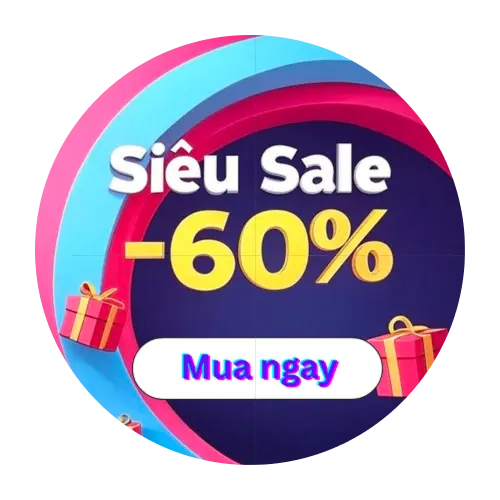
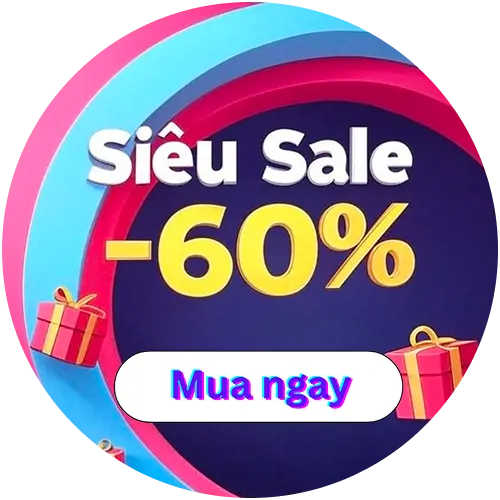
update tiktok, hide lzd

diff --git a/index.min.js b/index.min.js
@@ -1,1 +1,1 @@
-(()=>{function U(){U=function(){return a};var s,a={},e=Object.prototype,u=e.hasOwnProperty,l=Object.defineProperty||function(e,t,n){e[t]=n.value},t="function"==typeof Symbol?Symbol:{},r=t.iterator||"@@iterator",n=t.asyncIterator||"@@asyncIterator",o=t.toStringTag||"@@toStringTag";function i(e,t,n){return Object.defineProperty(e,t,{value:n,enumerable:!0,configurable:!0,writable:!0}),e[t]}try{i({},"")}catch(s){i=function(e,t,n){return e[t]=n}}function c(e,t,n,r){var o,i,a,c,t=t&&t.prototype instanceof m?t:m,t=Object.create(t.prototype),r=new S(r||[]);return l(t,"_invoke",{value:(o=e,i=n,a=r,c=p,function(e,t){if(c===d)throw Error("Generator is already running");if(c===y){if("throw"===e)throw t;return{value:s,done:!0}}for(a.method=e,a.arg=t;;){var n=a.delegate;if(n){n=function e(t,n){var r=n.method,o=t.iterator[r];if(o===s)return n.delegate=null,"throw"===r&&t.iterator.return&&(n.method="return",n.arg=s,e(t,n),"throw"===n.method)||"return"!==r&&(n.method="throw",n.arg=new TypeError("The iterator does not provide a '"+r+"' method")),v;r=f(o,t.iterator,n.arg);if("throw"===r.type)return n.method="throw",n.arg=r.arg,n.delegate=null,v;o=r.arg;return o?o.done?(n[t.resultName]=o.value,n.next=t.nextLoc,"return"!==n.method&&(n.method="next",n.arg=s),n.delegate=null,v):o:(n.method="throw",n.arg=new TypeError("iterator result is not an object"),n.delegate=null,v)}(n,a);if(n){if(n===v)continue;return n}}if("next"===a.method)a.sent=a._sent=a.arg;else if("throw"===a.method){if(c===p)throw c=y,a.arg;a.dispatchException(a.arg)}else"return"===a.method&&a.abrupt("return",a.arg);c=d;n=f(o,i,a);if("normal"===n.type){if(c=a.done?y:h,n.arg===v)continue;return{value:n.arg,done:a.done}}"throw"===n.type&&(c=y,a.method="throw",a.arg=n.arg)}})}),t}function f(e,t,n){try{return{type:"normal",arg:e.call(t,n)}}catch(e){return{type:"throw",arg:e}}}a.wrap=c;var p="suspendedStart",h="suspendedYield",d="executing",y="completed",v={};function m(){}function g(){}function w(){}var t={},b=(i(t,r,function(){return this}),Object.getPrototypeOf),b=b&&b(b(j([]))),x=(b&&b!==e&&u.call(b,r)&&(t=b),w.prototype=m.prototype=Object.create(t));function L(e){["next","throw","return"].forEach(function(t){i(e,t,function(e){return this._invoke(t,e)})})}function k(a,c){var t;l(this,"_invoke",{value:function(n,r){function e(){return new c(function(e,t){!function t(e,n,r,o){var i,e=f(a[e],a,n);if("throw"!==e.type)return(n=(i=e.arg).value)&&"object"==_(n)&&u.call(n,"__await")?c.resolve(n.__await).then(function(e){t("next",e,r,o)},function(e){t("throw",e,r,o)}):c.resolve(n).then(function(e){i.value=e,r(i)},function(e){return t("throw",e,r,o)});o(e.arg)}(n,r,e,t)})}return t=t?t.then(e,e):e()}})}function E(e){var t={tryLoc:e[0]};1 in e&&(t.catchLoc=e[1]),2 in e&&(t.finallyLoc=e[2],t.afterLoc=e[3]),this.tryEntries.push(t)}function I(e){var t=e.completion||{};t.type="normal",delete t.arg,e.completion=t}function S(e){this.tryEntries=[{tryLoc:"root"}],e.forEach(E,this),this.reset(!0)}function j(t){if(t||""===t){var n,e=t[r];if(e)return e.call(t);if("function"==typeof t.next)return t;if(!isNaN(t.length))return n=-1,(e=function e(){for(;++n<t.length;)if(u.call(t,n))return e.value=t[n],e.done=!1,e;return e.value=s,e.done=!0,e}).next=e}throw new TypeError(_(t)+" is not iterable")}return l(x,"constructor",{value:g.prototype=w,configurable:!0}),l(w,"constructor",{value:g,configurable:!0}),g.displayName=i(w,o,"GeneratorFunction"),a.isGeneratorFunction=function(e){e="function"==typeof e&&e.constructor;return!!e&&(e===g||"GeneratorFunction"===(e.displayName||e.name))},a.mark=function(e){return Object.setPrototypeOf?Object.setPrototypeOf(e,w):(e.__proto__=w,i(e,o,"GeneratorFunction")),e.prototype=Object.create(x),e},a.awrap=function(e){return{__await:e}},L(k.prototype),i(k.prototype,n,function(){return this}),a.AsyncIterator=k,a.async=function(e,t,n,r,o){void 0===o&&(o=Promise);var i=new k(c(e,t,n,r),o);return a.isGeneratorFunction(t)?i:i.next().then(function(e){return e.done?e.value:i.next()})},L(x),i(x,o,"Generator"),i(x,r,function(){return this}),i(x,"toString",function(){return"[object Generator]"}),a.keys=function(e){var t,n=Object(e),r=[];for(t in n)r.push(t);return r.reverse(),function e(){for(;r.length;){var t=r.pop();if(t in n)return e.value=t,e.done=!1,e}return e.done=!0,e}},a.values=j,S.prototype={constructor:S,reset:function(e){if(this.prev=0,this.next=0,this.sent=this._sent=s,this.done=!1,this.delegate=null,this.method="next",this.arg=s,this.tryEntries.forEach(I),!e)for(var t in this)"t"===t.charAt(0)&&u.call(this,t)&&!isNaN(+t.slice(1))&&(this[t]=s)},stop:function(){this.done=!0;var e=this.tryEntries[0].completion;if("throw"===e.type)throw e.arg;return this.rval},dispatchException:function(n){if(this.done)throw n;var r=this;function e(e,t){return i.type="throw",i.arg=n,r.next=e,t&&(r.method="next",r.arg=s),!!t}for(var t=this.tryEntries.length-1;0<=t;--t){var o=this.tryEntries[t],i=o.completion;if("root"===o.tryLoc)return e("end");if(o.tryLoc<=this.prev){var a=u.call(o,"catchLoc"),c=u.call(o,"finallyLoc");if(a&&c){if(this.prev<o.catchLoc)return e(o.catchLoc,!0);if(this.prev<o.finallyLoc)return e(o.finallyLoc)}else if(a){if(this.prev<o.catchLoc)return e(o.catchLoc,!0)}else{if(!c)throw Error("try statement without catch or finally");if(this.prev<o.finallyLoc)return e(o.finallyLoc)}}}},abrupt:function(e,t){for(var n=this.tryEntries.length-1;0<=n;--n){var r=this.tryEntries[n];if(r.tryLoc<=this.prev&&u.call(r,"finallyLoc")&&this.prev<r.finallyLoc){var o=r;break}}var i=(o=o&&("break"===e||"continue"===e)&&o.tryLoc<=t&&t<=o.finallyLoc?null:o)?o.completion:{};return i.type=e,i.arg=t,o?(this.method="next",this.next=o.finallyLoc,v):this.complete(i)},complete:function(e,t){if("throw"===e.type)throw e.arg;return"break"===e.type||"continue"===e.type?this.next=e.arg:"return"===e.type?(this.rval=this.arg=e.arg,this.method="return",this.next="end"):"normal"===e.type&&t&&(this.next=t),v},finish:function(e){for(var t=this.tryEntries.length-1;0<=t;--t){var n=this.tryEntries[t];if(n.finallyLoc===e)return this.complete(n.completion,n.afterLoc),I(n),v}},catch:function(e){for(var t=this.tryEntries.length-1;0<=t;--t){var n,r,o=this.tryEntries[t];if(o.tryLoc===e)return"throw"===(n=o.completion).type&&(r=n.arg,I(o)),r}throw Error("illegal catch attempt")},delegateYield:function(e,t,n){return this.delegate={iterator:j(e),resultName:t,nextLoc:n},"next"===this.method&&(this.arg=s),v}},a}function _(e){return(_="function"==typeof Symbol&&"symbol"==typeof Symbol.iterator?function(e){return typeof e}:function(e){return e&&"function"==typeof Symbol&&e.constructor===Symbol&&e!==Symbol.prototype?"symbol":typeof e})(e)}function s(e,t,n,r,o,i,a){try{var c=e[i](a),s=c.value}catch(e){return n(e)}c.done?t(s):Promise.resolve(s).then(r,o)}function S(c){return function(){var e=this,a=arguments;return new Promise(function(t,n){var r=c.apply(e,a);function o(e){s(r,t,n,o,i,"next",e)}function i(e){s(r,t,n,o,i,"throw",e)}o(void 0)})}}document.addEventListener("DOMContentLoaded",S(U().mark(function e(){var n,t,i,a,c,r,o,s,u,l,f,p,h,d,y,v,m,g,w,b,x,L,k,E,I;return U().wrap(function(e){for(;;)switch(e.prev=e.next){case 0:if(I=function(){var e=document.getElementById(0<arguments.length&&void 0!==arguments[0]?arguments[0]:"");return e.parentNode.lastChild===e},E=function(){var e=document.getElementById(0<arguments.length&&void 0!==arguments[0]?arguments[0]:"");document.body.appendChild(e)},k=function(){var e=document.querySelector("#pvoucher-live-icon img").src;return r.indexOf(e)},L=function(){return(L=S(U().mark(function e(){var t,n,r,o=arguments;return U().wrap(function(e){for(;;)switch(e.prev=e.next){case 0:if(t=0<o.length&&void 0!==o[0]&&o[0],n=(new Date).getTime(),r=y("pEndLifeCircleTime"),null==y("pUrlIndex"))e.next=18;else{if(null!=r)return e.next=8,v(n,r);e.next=15}break;case 8:e.sent?(w(n,t),e.next=13):e.next=12;break;case 12:t&&g();case 13:e.next=16;break;case 15:w(n,t);case 16:e.next=26;break;case 18:return e.next=20,m(0);case 20:if(!e.sent){e.next=23;break}d("pEndLifeCircleTime",n),g();case 23:i=!1,d("pUrlIndex",0),window.open(h(c[0]),"_blank","noopener");case 26:case"end":return e.stop()}},e)}))).apply(this,arguments)},x=function(){return L.apply(this,arguments)},b=function(){return(b=S(U().mark(function e(t,n){var r,o;return U().wrap(function(e){for(;;)switch(e.prev=e.next){case 0:return r=y("pUrlIndex"),(o=void(o=0)===a||1!=a||k()!=r?parseInt(r)+1:parseInt(r))>=c.length&&(o=0),e.next=6,m(o);case 6:if(!e.sent){e.next=9;break}d("pEndLifeCircleTime",t),g();case 9:d("pUrlIndex",o),i=!1,window.open(h(c[o]),"_blank","noopener");case 12:case"end":return e.stop()}},e)}))).apply(this,arguments)},w=function(e,t){return b.apply(this,arguments)},g=function(){document.querySelector("#pvoucher-live-container").style.display="none"},m=function(e){return e==c.length-1},v=function(e,t){return(2<arguments.length&&void 0!==arguments[2]?arguments[2]:.01)*n<e-t},y=function(e){return localStorage.getItem(e)},d=function(e,t){localStorage.setItem(e,t)},h=function(e){return"click.adpia.vn"!=(objectURL=new URL(e)).host&&"adpvn.co"!=objectURL.host&&"adpvn.top"!=objectURL.host?"https://rutgon.me/v0/".concat(pAffiliateId,"?url=").concat(encodeURIComponent(e)):e},p=function(e){setTimeout(function(){document.body.insertAdjacentHTML("beforeend",u),null!=document.querySelector("#pvoucher-live-icon")&&document.querySelector("#pvoucher-live-icon").addEventListener("click",function(){x()}),null!=document.querySelector("#pvoucher-live-close")&&document.querySelector("#pvoucher-live-close").addEventListener("click",function(){i&&x(!0),g()})},e)},n=36e5,o=window.innerWidth,t=1500,l=50,a=i=!(f=0),c=["https://pages.lazada.vn/wow/gcp/lazada/channel/vn/voucher/claimvoucher?","https://shopee.vn/m/ma-giam-gia","https://www.tiktok.com/t/ZSkbqcfb1/"],r=["https://cdn.jsdelivr.net/gh/masoffer-com/Aff-Pop@master/images/lazada-voucher.webp","https://cdn.jsdelivr.net/gh/masoffer-com/Aff-Pop@master/images/shopee-voucher.webp","https://cdn.jsdelivr.net/gh/masoffer-com/Aff-Pop@master/images/tiktok-voucher.webp"],"undefined"!=typeof pUserUrls&&(c=pUserUrls),"undefined"!=typeof pUserBanners&&(r=pUserBanners),"undefined"!=typeof pUserDelay&&(t=1e3*pUserDelay),"undefined"!=typeof iconPosition&&(l=iconPosition),f=768<=o?pWidthPCScreen:pWidthMobileScreen,void(o=0)!==a&&1==a?(o=null!=y("pUrlIndex")?parseInt(y("pUrlIndex"))+1:2)>=r.length&&(o=0):(console.log(_(a)),o=Math.floor(Math.random()*(null==(s=r)?void 0:s.length))),console.log("pBannerIndex: ",o),s="\n    <style>\n        .p-fade-in {\n          transform-origin: center right; transition: transform 0.3s ease-in-out; opacity: 0;\n          animation: pFadeIn ease-in-out 2.3s 1 forwards; -webkit-animation: pFadeIn ease-in-out 2.3s 1 forwards;\n          -moz-animation: pFadeIn ease-in-out 2.3s 1 forwards; -o-animation: pFadeIn ease-in-out 2.3s 1 forwards;\n          -ms-animation: pFadeIn ease-in-out 2.3s 1 forwards; position: fixed; top: ".concat(l,"%; right: 8px;\n          transform: translateY(-50%) scale(1); z-index: 2147483646\n        }\n        @keyframes         pFadeIn { 0% { opacity: 0; } 100% { opacity: 1; } }\n        @-moz-keyframes    pFadeIn { 0% { opacity: 0; } 100% { opacity: 1; } }\n        @-webkit-keyframes pFadeIn { 0% { opacity: 0; } 100% { opacity: 1; } }\n        @-o-keyframes      pFadeIn { 0% { opacity: 0; } 100% { opacity: 1; } }\n        @-ms-keyframes     pFadeIn { 0% { opacity: 0; } 100% { opacity: 1; } }\n\n        @media only screen and (max-width: 600px)  { .p-fade-in { transform: translateY(-50%) scale(0.77); } }\n        @media only screen and (min-width: 601px)\n                           and (max-width: 1200px) { .p-fade-in { transform: translateY(-50%) scale(0.88); } }\n        @media only screen and (min-width: 1201px) { .p-fade-in {} }\n    </style>\n  "),u=(u=s+'\n      <div id="pvoucher-live-container" class="p-fade-in">\n          <div style="position: relative;">\n              <div id="pvoucher-live-close" style="position: absolute; top: -20px; right: 0; background-color: #ffffff; border: 1px solid #bbbbbb; width: fit-content; display: inline; border-radius: 50%; padding: 3px 6px; font-size: 12px; font-weight: 600; cursor: pointer; line-height: initial;">\n                  &#10006;\n              </div>\n              <div id="pvoucher-live-icon" style="width: '.concat(f,'px; cursor: pointer;">\n                  <img src="').concat(""==r[o]?"https://cdn.jsdelivr.net/gh/masoffer-com/Aff-Pop@master/images/shopee-voucher.webp":r[o],'" alt="" style="width: 100%;">\n              </div>\n          </div>\n      </div>\n  ')).replace(/(\r\n|\n|\r)/gm,"").replace(/[\t\s]+/gm," "),l=(new Date).getTime(),null!=(f=y("pEndLifeCircleTime")))return e.next=40,v(l,f);e.next=44;break;case 40:if(!e.sent){e.next=42;break}p(t);case 42:e.next=45;break;case 44:p(t);case 45:setInterval(function(){!document.getElementById("pvoucher-live-container")||I("pvoucher-live-container")||E("pvoucher-live-container")},3e3);case 46:case"end":return e.stop()}},e)})))})();
+(()=>{function U(){U=function(){return a};var u,a={},t=Object.prototype,s=t.hasOwnProperty,l=Object.defineProperty||function(t,e,n){t[e]=n.value},e="function"==typeof Symbol?Symbol:{},r=e.iterator||"@@iterator",n=e.asyncIterator||"@@asyncIterator",o=e.toStringTag||"@@toStringTag";function i(t,e,n){return Object.defineProperty(t,e,{value:n,enumerable:!0,configurable:!0,writable:!0}),t[e]}try{i({},"")}catch(u){i=function(t,e,n){return t[e]=n}}function c(t,e,n,r){var o,i,a,c,e=e&&e.prototype instanceof v?e:v,e=Object.create(e.prototype),r=new j(r||[]);return l(e,"_invoke",{value:(o=t,i=n,a=r,c=p,function(t,e){if(c===d)throw Error("Generator is already running");if(c===y){if("throw"===t)throw e;return{value:u,done:!0}}for(a.method=t,a.arg=e;;){var n=a.delegate;if(n){n=function t(e,n){var r=n.method,o=e.iterator[r];if(o===u)return n.delegate=null,"throw"===r&&e.iterator.return&&(n.method="return",n.arg=u,t(e,n),"throw"===n.method)||"return"!==r&&(n.method="throw",n.arg=new TypeError("The iterator does not provide a '"+r+"' method")),m;r=f(o,e.iterator,n.arg);if("throw"===r.type)return n.method="throw",n.arg=r.arg,n.delegate=null,m;o=r.arg;return o?o.done?(n[e.resultName]=o.value,n.next=e.nextLoc,"return"!==n.method&&(n.method="next",n.arg=u),n.delegate=null,m):o:(n.method="throw",n.arg=new TypeError("iterator result is not an object"),n.delegate=null,m)}(n,a);if(n){if(n===m)continue;return n}}if("next"===a.method)a.sent=a._sent=a.arg;else if("throw"===a.method){if(c===p)throw c=y,a.arg;a.dispatchException(a.arg)}else"return"===a.method&&a.abrupt("return",a.arg);c=d;n=f(o,i,a);if("normal"===n.type){if(c=a.done?y:h,n.arg===m)continue;return{value:n.arg,done:a.done}}"throw"===n.type&&(c=y,a.method="throw",a.arg=n.arg)}})}),e}function f(t,e,n){try{return{type:"normal",arg:t.call(e,n)}}catch(t){return{type:"throw",arg:t}}}a.wrap=c;var p="suspendedStart",h="suspendedYield",d="executing",y="completed",m={};function v(){}function g(){}function w(){}var e={},b=(i(e,r,function(){return this}),Object.getPrototypeOf),b=b&&b(b(S([]))),x=(b&&b!==t&&s.call(b,r)&&(e=b),w.prototype=v.prototype=Object.create(e));function L(t){["next","throw","return"].forEach(function(e){i(t,e,function(t){return this._invoke(e,t)})})}function k(a,c){var e;l(this,"_invoke",{value:function(n,r){function t(){return new c(function(t,e){!function e(t,n,r,o){var i,t=f(a[t],a,n);if("throw"!==t.type)return(n=(i=t.arg).value)&&"object"==_(n)&&s.call(n,"__await")?c.resolve(n.__await).then(function(t){e("next",t,r,o)},function(t){e("throw",t,r,o)}):c.resolve(n).then(function(t){i.value=t,r(i)},function(t){return e("throw",t,r,o)});o(t.arg)}(n,r,t,e)})}return e=e?e.then(t,t):t()}})}function E(t){var e={tryLoc:t[0]};1 in t&&(e.catchLoc=t[1]),2 in t&&(e.finallyLoc=t[2],e.afterLoc=t[3]),this.tryEntries.push(e)}function I(t){var e=t.completion||{};e.type="normal",delete e.arg,t.completion=e}function j(t){this.tryEntries=[{tryLoc:"root"}],t.forEach(E,this),this.reset(!0)}function S(e){if(e||""===e){var n,t=e[r];if(t)return t.call(e);if("function"==typeof e.next)return e;if(!isNaN(e.length))return n=-1,(t=function t(){for(;++n<e.length;)if(s.call(e,n))return t.value=e[n],t.done=!1,t;return t.value=u,t.done=!0,t}).next=t}throw new TypeError(_(e)+" is not iterable")}return l(x,"constructor",{value:g.prototype=w,configurable:!0}),l(w,"constructor",{value:g,configurable:!0}),g.displayName=i(w,o,"GeneratorFunction"),a.isGeneratorFunction=function(t){t="function"==typeof t&&t.constructor;return!!t&&(t===g||"GeneratorFunction"===(t.displayName||t.name))},a.mark=function(t){return Object.setPrototypeOf?Object.setPrototypeOf(t,w):(t.__proto__=w,i(t,o,"GeneratorFunction")),t.prototype=Object.create(x),t},a.awrap=function(t){return{__await:t}},L(k.prototype),i(k.prototype,n,function(){return this}),a.AsyncIterator=k,a.async=function(t,e,n,r,o){void 0===o&&(o=Promise);var i=new k(c(t,e,n,r),o);return a.isGeneratorFunction(e)?i:i.next().then(function(t){return t.done?t.value:i.next()})},L(x),i(x,o,"Generator"),i(x,r,function(){return this}),i(x,"toString",function(){return"[object Generator]"}),a.keys=function(t){var e,n=Object(t),r=[];for(e in n)r.push(e);return r.reverse(),function t(){for(;r.length;){var e=r.pop();if(e in n)return t.value=e,t.done=!1,t}return t.done=!0,t}},a.values=S,j.prototype={constructor:j,reset:function(t){if(this.prev=0,this.next=0,this.sent=this._sent=u,this.done=!1,this.delegate=null,this.method="next",this.arg=u,this.tryEntries.forEach(I),!t)for(var e in this)"t"===e.charAt(0)&&s.call(this,e)&&!isNaN(+e.slice(1))&&(this[e]=u)},stop:function(){this.done=!0;var t=this.tryEntries[0].completion;if("throw"===t.type)throw t.arg;return this.rval},dispatchException:function(n){if(this.done)throw n;var r=this;function t(t,e){return i.type="throw",i.arg=n,r.next=t,e&&(r.method="next",r.arg=u),!!e}for(var e=this.tryEntries.length-1;0<=e;--e){var o=this.tryEntries[e],i=o.completion;if("root"===o.tryLoc)return t("end");if(o.tryLoc<=this.prev){var a=s.call(o,"catchLoc"),c=s.call(o,"finallyLoc");if(a&&c){if(this.prev<o.catchLoc)return t(o.catchLoc,!0);if(this.prev<o.finallyLoc)return t(o.finallyLoc)}else if(a){if(this.prev<o.catchLoc)return t(o.catchLoc,!0)}else{if(!c)throw Error("try statement without catch or finally");if(this.prev<o.finallyLoc)return t(o.finallyLoc)}}}},abrupt:function(t,e){for(var n=this.tryEntries.length-1;0<=n;--n){var r=this.tryEntries[n];if(r.tryLoc<=this.prev&&s.call(r,"finallyLoc")&&this.prev<r.finallyLoc){var o=r;break}}var i=(o=o&&("break"===t||"continue"===t)&&o.tryLoc<=e&&e<=o.finallyLoc?null:o)?o.completion:{};return i.type=t,i.arg=e,o?(this.method="next",this.next=o.finallyLoc,m):this.complete(i)},complete:function(t,e){if("throw"===t.type)throw t.arg;return"break"===t.type||"continue"===t.type?this.next=t.arg:"return"===t.type?(this.rval=this.arg=t.arg,this.method="return",this.next="end"):"normal"===t.type&&e&&(this.next=e),m},finish:function(t){for(var e=this.tryEntries.length-1;0<=e;--e){var n=this.tryEntries[e];if(n.finallyLoc===t)return this.complete(n.completion,n.afterLoc),I(n),m}},catch:function(t){for(var e=this.tryEntries.length-1;0<=e;--e){var n,r,o=this.tryEntries[e];if(o.tryLoc===t)return"throw"===(n=o.completion).type&&(r=n.arg,I(o)),r}throw Error("illegal catch attempt")},delegateYield:function(t,e,n){return this.delegate={iterator:S(t),resultName:e,nextLoc:n},"next"===this.method&&(this.arg=u),m}},a}function _(t){return(_="function"==typeof Symbol&&"symbol"==typeof Symbol.iterator?function(t){return typeof t}:function(t){return t&&"function"==typeof Symbol&&t.constructor===Symbol&&t!==Symbol.prototype?"symbol":typeof t})(t)}function u(t,e,n,r,o,i,a){try{var c=t[i](a),u=c.value}catch(t){return n(t)}c.done?e(u):Promise.resolve(u).then(r,o)}function j(c){return function(){var t=this,a=arguments;return new Promise(function(e,n){var r=c.apply(t,a);function o(t){u(r,e,n,o,i,"next",t)}function i(t){u(r,e,n,o,i,"throw",t)}o(void 0)})}}document.addEventListener("DOMContentLoaded",j(U().mark(function t(){var n,e,i,a,c,r,o,u,s,l,f,p,h,d,y,m,v,g,w,b,x,L,k,E,I;return U().wrap(function(t){for(;;)switch(t.prev=t.next){case 0:if(I=function(){var t=document.getElementById(0<arguments.length&&void 0!==arguments[0]?arguments[0]:"");return t.parentNode.lastChild===t},E=function(){var t=document.getElementById(0<arguments.length&&void 0!==arguments[0]?arguments[0]:"");document.body.appendChild(t)},k=function(){var t=document.querySelector("#pvoucher-live-icon img").src;return r.indexOf(t)},L=function(){return(L=j(U().mark(function t(){var e,n,r,o=arguments;return U().wrap(function(t){for(;;)switch(t.prev=t.next){case 0:if(e=0<o.length&&void 0!==o[0]&&o[0],n=(new Date).getTime(),r=y("pEndLifeCircleTime"),null==y("pUrlIndex"))t.next=18;else{if(null!=r)return t.next=8,m(n,r);t.next=15}break;case 8:t.sent?(w(n,e),t.next=13):t.next=12;break;case 12:e&&g();case 13:t.next=16;break;case 15:w(n,e);case 16:t.next=26;break;case 18:return t.next=20,v(0);case 20:if(!t.sent){t.next=23;break}d("pEndLifeCircleTime",n),g();case 23:i=!1,d("pUrlIndex",0),window.open(h(c[0]),"_blank","noopener");case 26:case"end":return t.stop()}},t)}))).apply(this,arguments)},x=function(){return L.apply(this,arguments)},b=function(){return(b=j(U().mark(function t(e,n){var r,o;return U().wrap(function(t){for(;;)switch(t.prev=t.next){case 0:return r=y("pUrlIndex"),(o=void(o=0)===a||1!=a||k()!=r?parseInt(r)+1:parseInt(r))>=c.length&&(o=0),t.next=6,v(o);case 6:if(!t.sent){t.next=9;break}d("pEndLifeCircleTime",e),g();case 9:d("pUrlIndex",o),i=!1,window.open(h(c[o]),"_blank","noopener");case 12:case"end":return t.stop()}},t)}))).apply(this,arguments)},w=function(t,e){return b.apply(this,arguments)},g=function(){document.querySelector("#pvoucher-live-container").style.display="none"},v=function(t){return t==c.length-1},m=function(t,e){return(2<arguments.length&&void 0!==arguments[2]?arguments[2]:.01)*n<t-e},y=function(t){return localStorage.getItem(t)},d=function(t,e){localStorage.setItem(t,e)},h=function(t){return"click.adpia.vn"!=(objectURL=new URL(t)).host&&"adpvn.co"!=objectURL.host&&"adpvn.top"!=objectURL.host&&"www.tiktok.com"!=objectURL.host&&"vt.tiktok.com"!=objectURL.host?"https://rutgon.me/v0/".concat(pAffiliateId,"?url=").concat(encodeURIComponent(t)):t},p=function(t){setTimeout(function(){document.body.insertAdjacentHTML("beforeend",s),null!=document.querySelector("#pvoucher-live-icon")&&document.querySelector("#pvoucher-live-icon").addEventListener("click",function(){x()}),null!=document.querySelector("#pvoucher-live-close")&&document.querySelector("#pvoucher-live-close").addEventListener("click",function(){i&&x(!0),g()})},t)},n=36e5,o=window.innerWidth,e=1500,l=50,a=i=!(f=0),c=["https://shopee.vn/m/ma-giam-gia","https://www.tiktok.com/t/ZSkbqcfb1/"],r=["https://cdn.jsdelivr.net/gh/masoffer-com/Aff-Pop@master/images/shopee-voucher.webp","https://cdn.jsdelivr.net/gh/masoffer-com/Aff-Pop@master/images/tiktok-voucher.webp"],"undefined"!=typeof pUserUrls&&(c=pUserUrls),"undefined"!=typeof pUserBanners&&(r=pUserBanners),"undefined"!=typeof pUserDelay&&(e=1e3*pUserDelay),"undefined"!=typeof iconPosition&&(l=iconPosition),f=768<=o?pWidthPCScreen:pWidthMobileScreen,void(o=0)!==a&&1==a?(o=null!=y("pUrlIndex")?parseInt(y("pUrlIndex"))+1:2)>=r.length&&(o=0):(console.log(_(a)),o=Math.floor(Math.random()*(null==(u=r)?void 0:u.length))),u="\n    <style>\n        .p-fade-in {\n          transform-origin: center right; transition: transform 0.3s ease-in-out; opacity: 0;\n          animation: pFadeIn ease-in-out 2.3s 1 forwards; -webkit-animation: pFadeIn ease-in-out 2.3s 1 forwards;\n          -moz-animation: pFadeIn ease-in-out 2.3s 1 forwards; -o-animation: pFadeIn ease-in-out 2.3s 1 forwards;\n          -ms-animation: pFadeIn ease-in-out 2.3s 1 forwards; position: fixed; top: ".concat(l,"%; right: 8px;\n          transform: translateY(-50%) scale(1); z-index: 2147483646\n        }\n        @keyframes         pFadeIn { 0% { opacity: 0; } 100% { opacity: 1; } }\n        @-moz-keyframes    pFadeIn { 0% { opacity: 0; } 100% { opacity: 1; } }\n        @-webkit-keyframes pFadeIn { 0% { opacity: 0; } 100% { opacity: 1; } }\n        @-o-keyframes      pFadeIn { 0% { opacity: 0; } 100% { opacity: 1; } }\n        @-ms-keyframes     pFadeIn { 0% { opacity: 0; } 100% { opacity: 1; } }\n\n        @media only screen and (max-width: 600px)  { .p-fade-in { transform: translateY(-50%) scale(0.77); } }\n        @media only screen and (min-width: 601px)\n                           and (max-width: 1200px) { .p-fade-in { transform: translateY(-50%) scale(0.88); } }\n        @media only screen and (min-width: 1201px) { .p-fade-in {} }\n    </style>\n  "),s=(s=u+'\n      <div id="pvoucher-live-container" class="p-fade-in">\n          <div style="position: relative;">\n              <div id="pvoucher-live-close" style="position: absolute; top: -20px; right: 0; background-color: #ffffff; border: 1px solid #bbbbbb; width: fit-content; display: inline; border-radius: 50%; padding: 3px 6px; font-size: 12px; font-weight: 600; cursor: pointer; line-height: initial;">\n                  &#10006;\n              </div>\n              <div id="pvoucher-live-icon" style="width: '.concat(f,'px; cursor: pointer;">\n                  <img src="').concat(""==r[o]?"https://cdn.jsdelivr.net/gh/masoffer-com/Aff-Pop@master/images/shopee-voucher.webp":r[o],'" alt="" style="width: 100%;">\n              </div>\n          </div>\n      </div>\n  ')).replace(/(\r\n|\n|\r)/gm,"").replace(/[\t\s]+/gm," "),l=(new Date).getTime(),null!=(f=y("pEndLifeCircleTime")))return t.next=39,m(l,f);t.next=43;break;case 39:if(!t.sent){t.next=41;break}p(e);case 41:t.next=44;break;case 43:p(e);case 44:setInterval(function(){!document.getElementById("pvoucher-live-container")||I("pvoucher-live-container")||E("pvoucher-live-container")},3e3);case 45:case"end":return t.stop()}},t)})))})();
